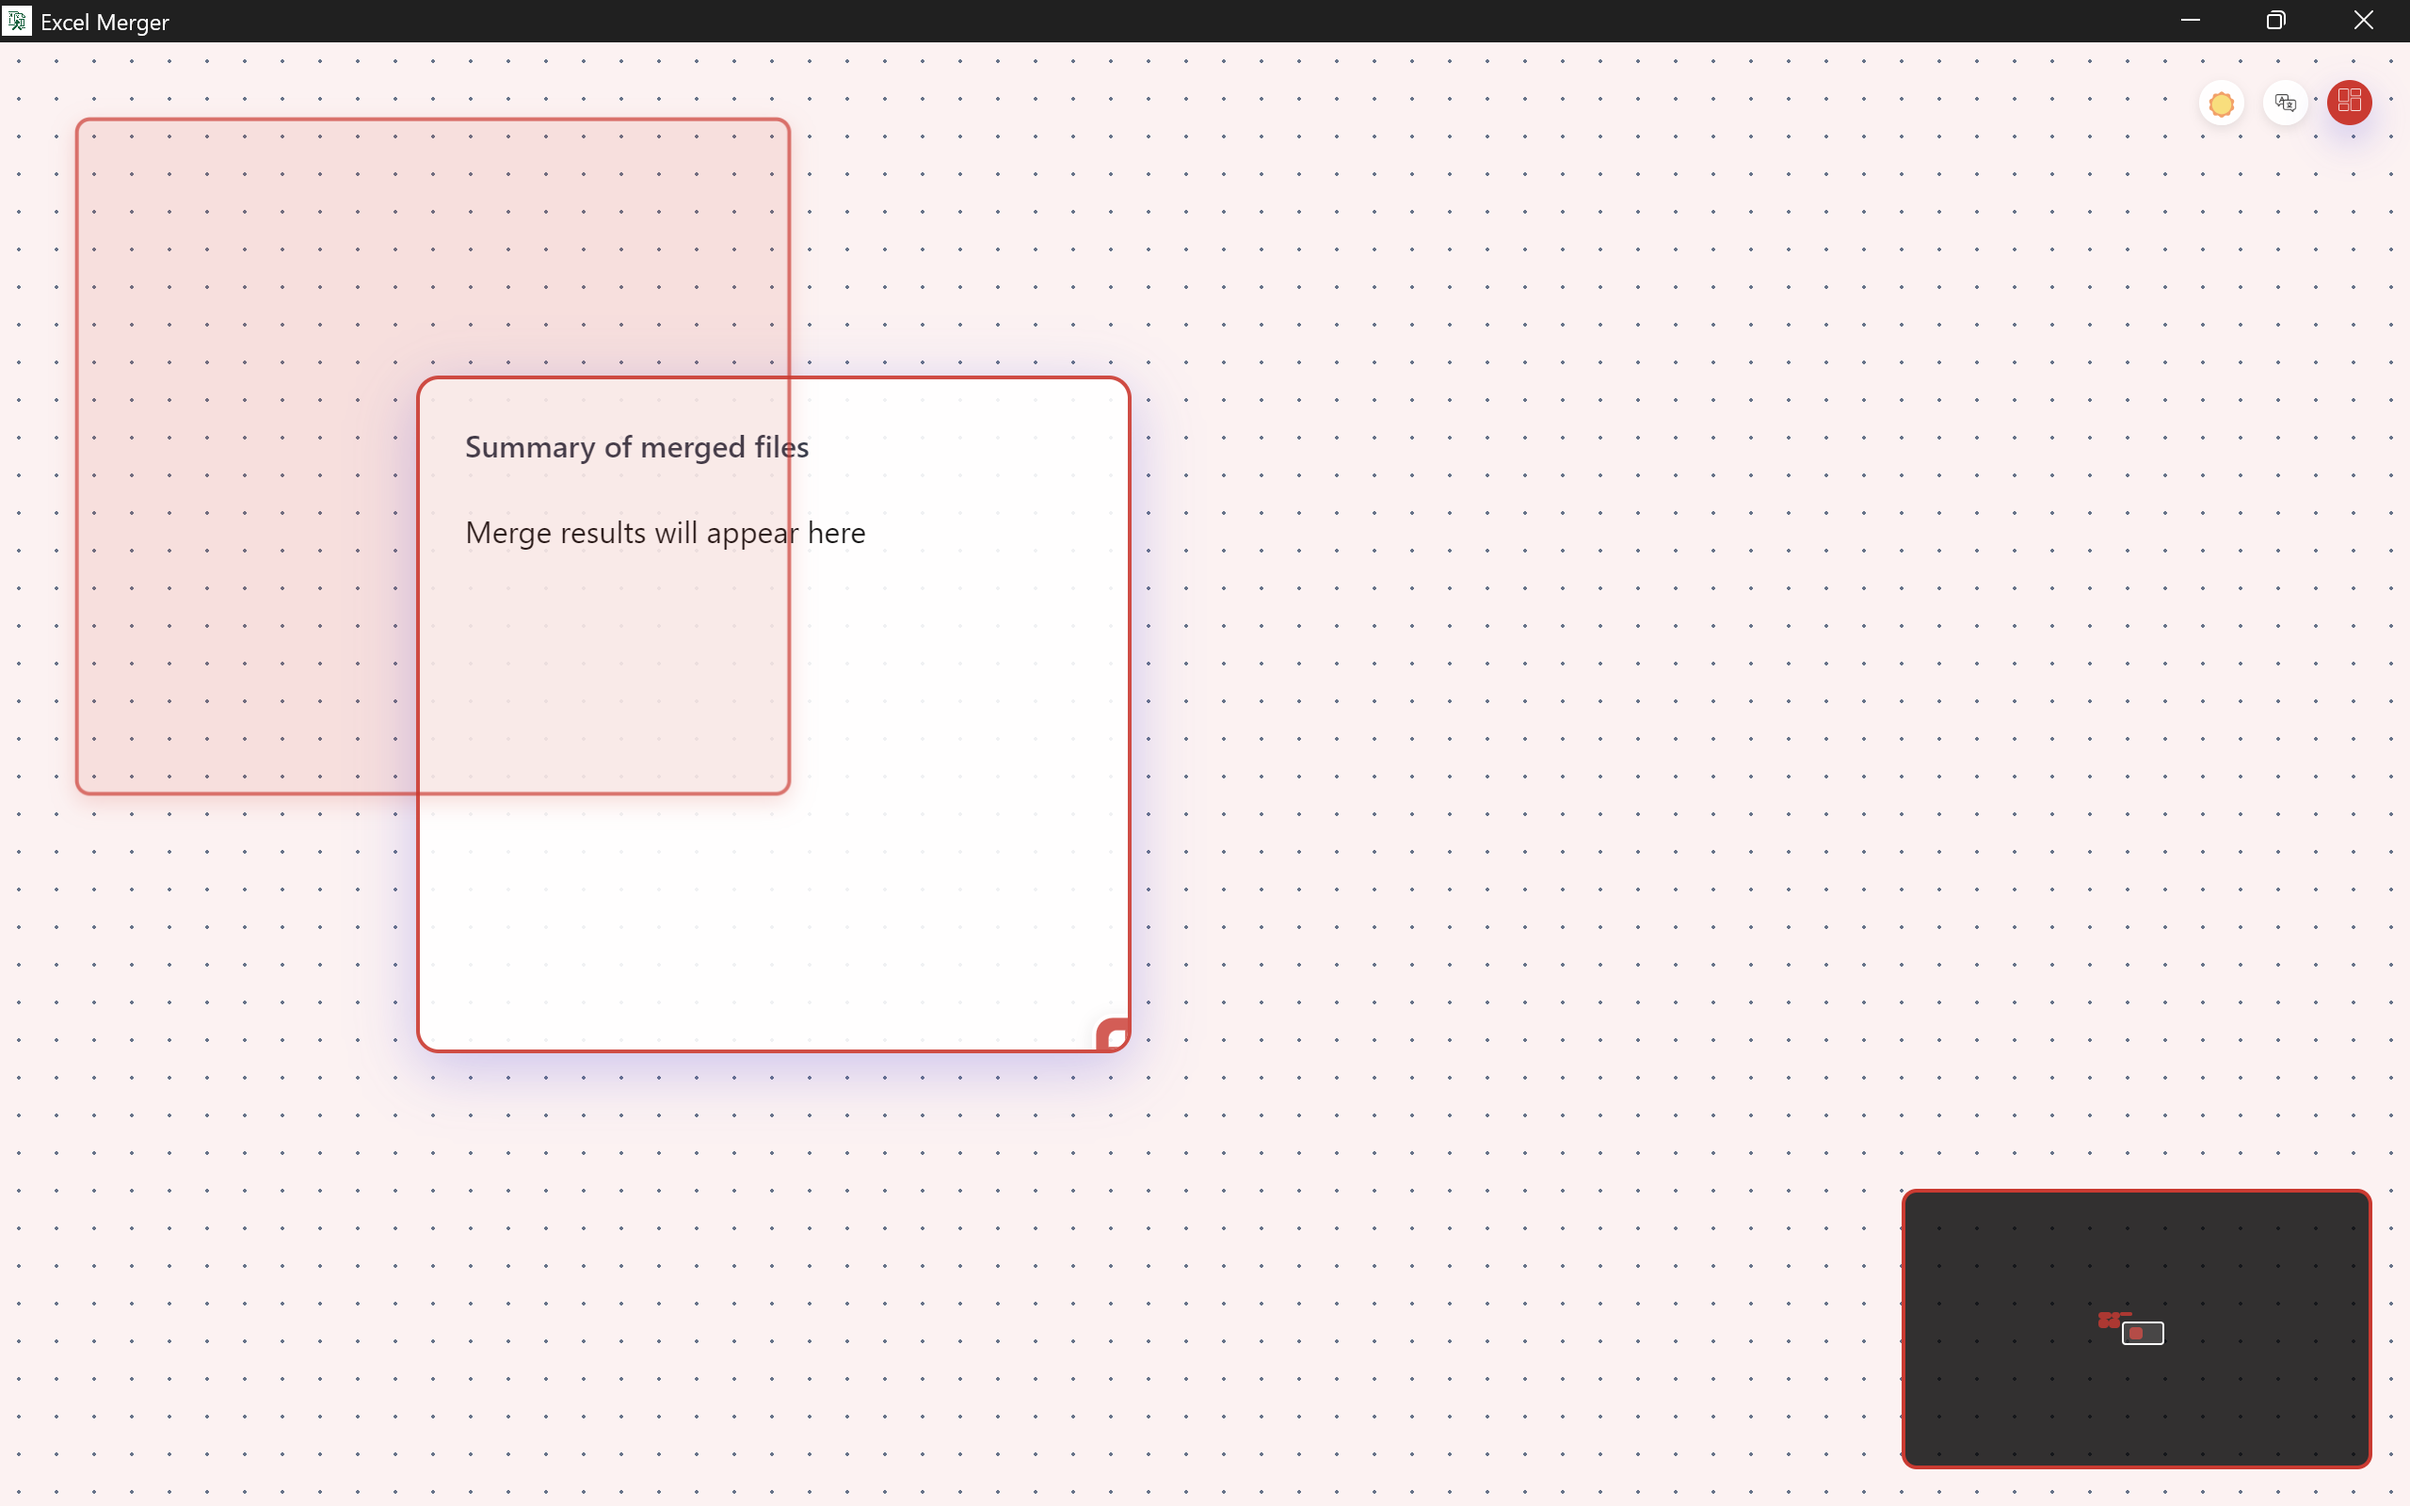
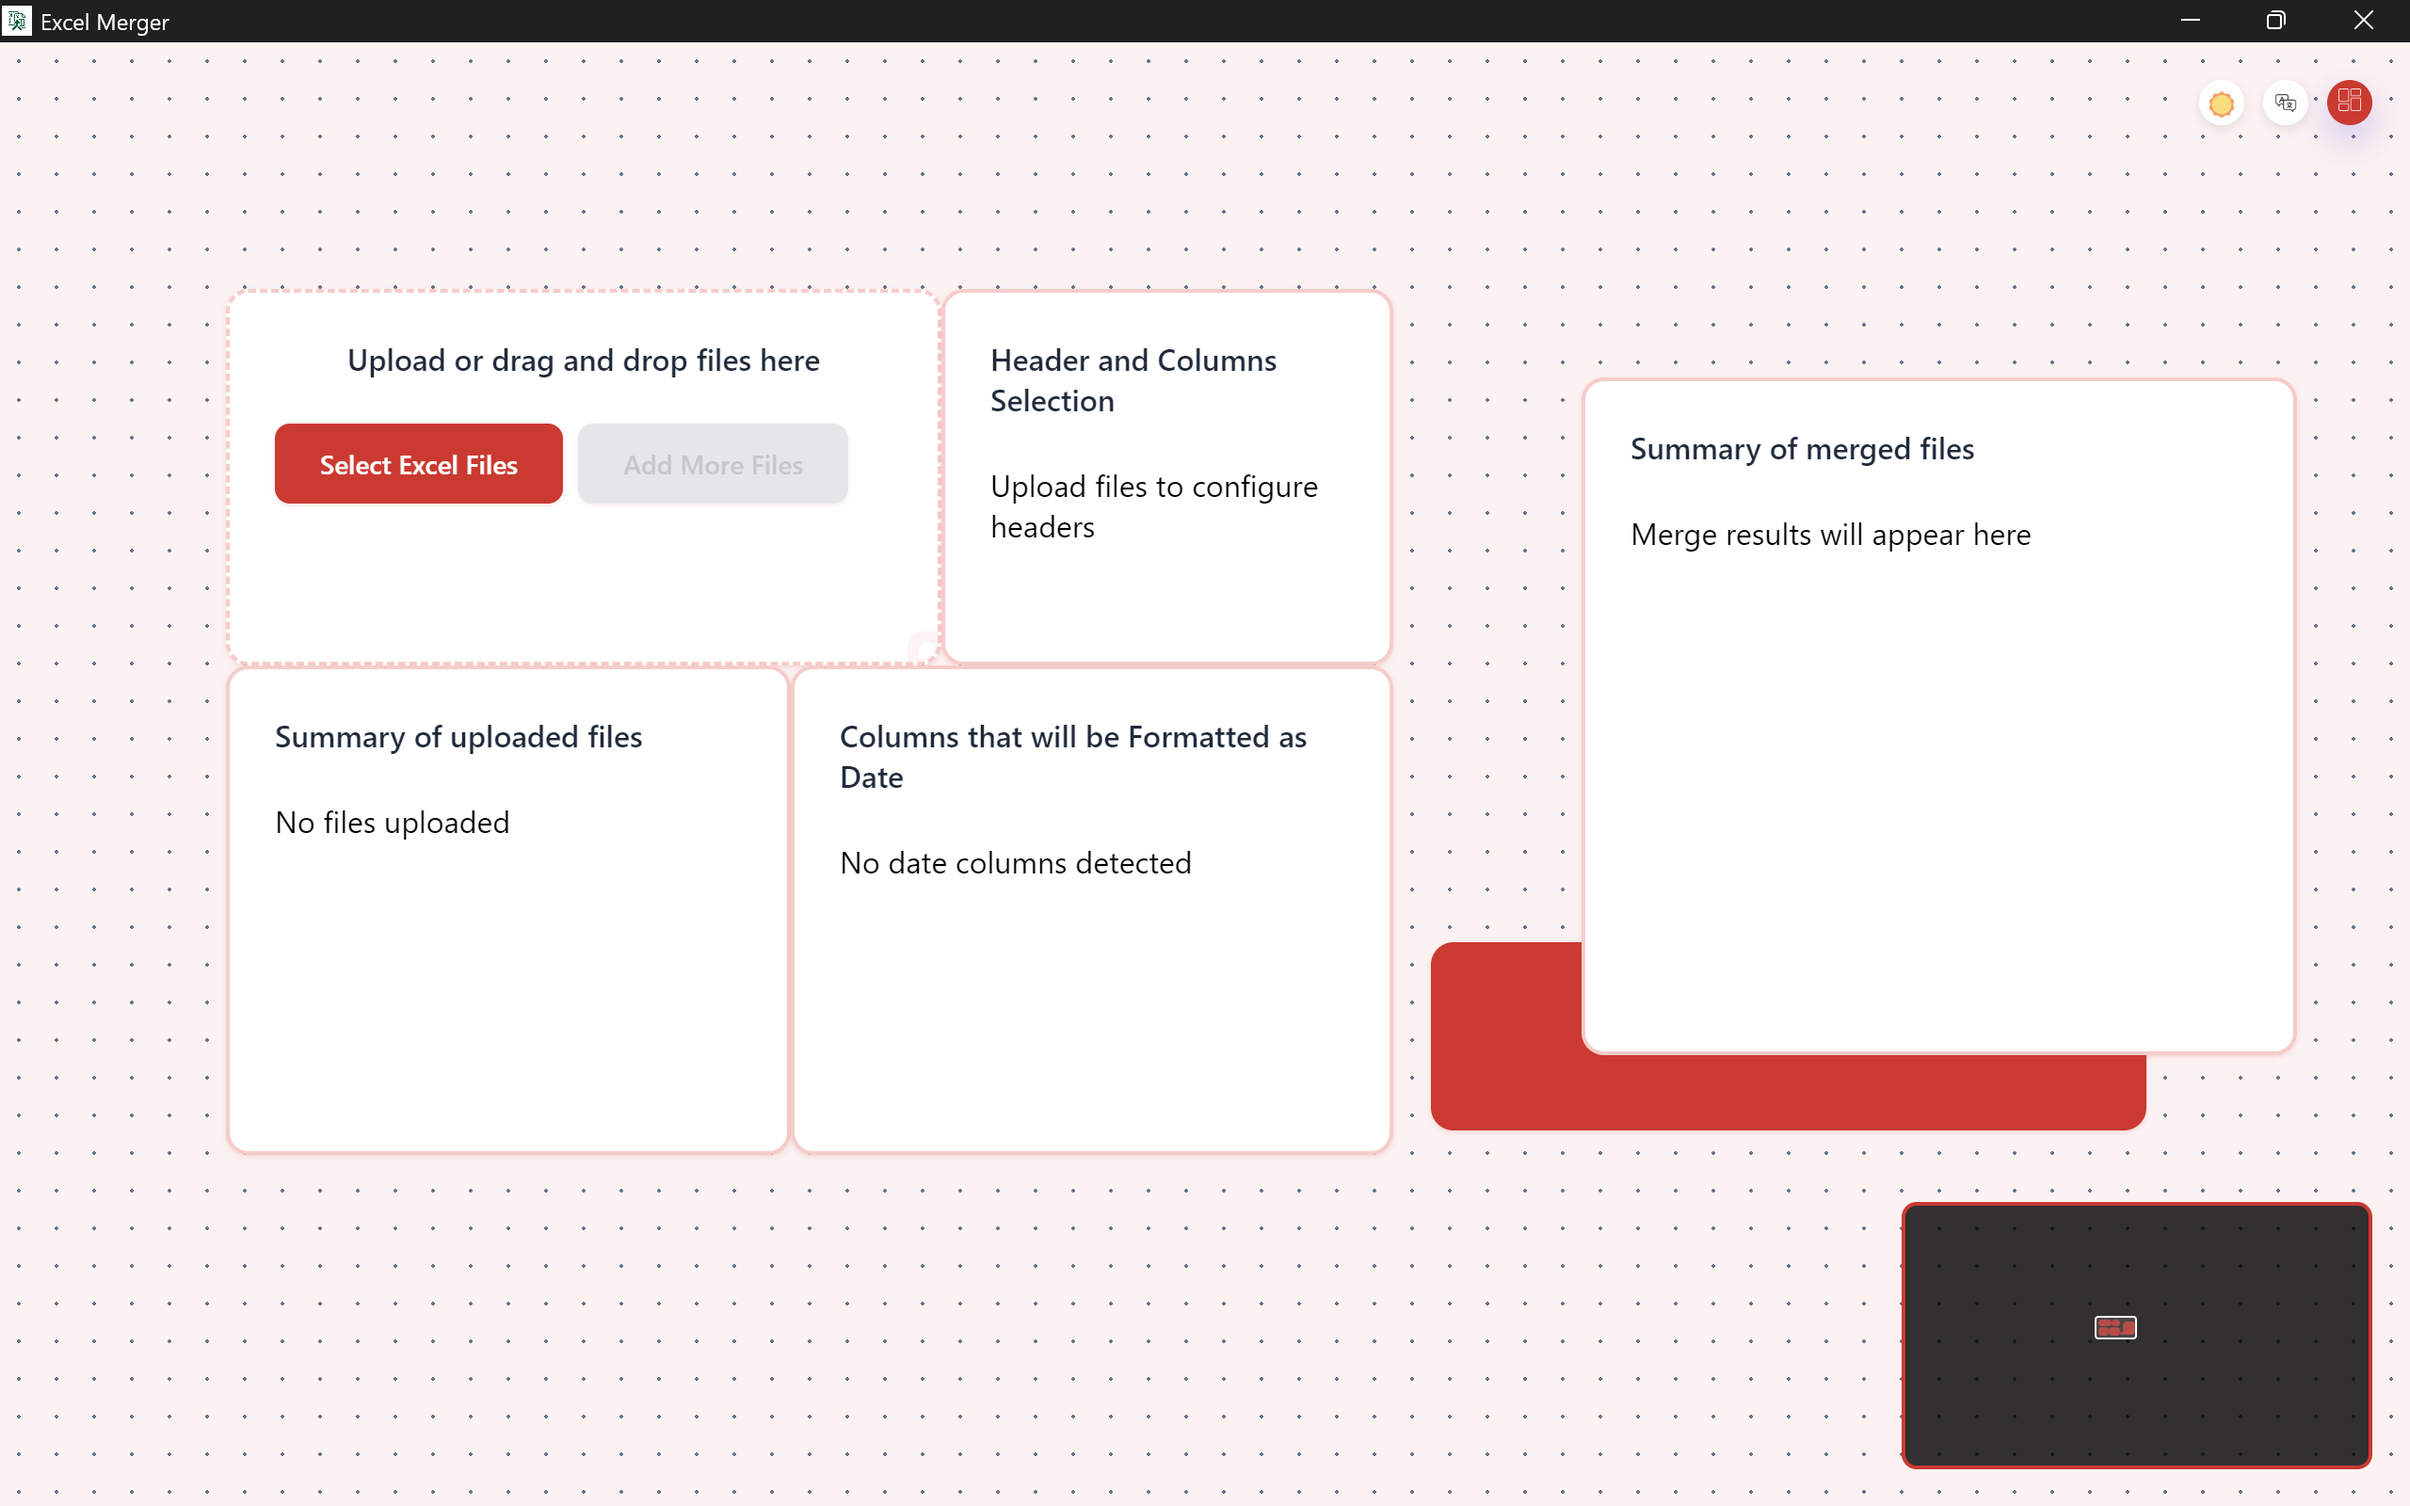
Fix collision matrix corruption during drag operations in layout mode
- Add useInitialPosition parameter to collision detection functions
- Use initial drag position instead of current position during drag operations
- Prevent collision matrix desync when panels move in real-time
- Add rebuildCollisionMatrix function to ensure matrix consistency
- Fix panel overlapping and movement restrictions in layout mode
- Maintain accurate collision detection throughout drag operations

🤖 Generated with [Claude Code](https://claude.ai/code)

diff --git a/src/App.js b/src/App.js
@@ -659,7 +659,7 @@ function App() {
   };
 
   // Matrix-based collision detection
-  const checkCollisionMatrix = (elementId, worldX, worldY, width, height) => {
+  const checkCollisionMatrix = (elementId, worldX, worldY, width, height, useInitialPosition = false) => {
     if (!collisionMatrix) {
       return false; // No matrix available, allow movement
     }
@@ -678,17 +678,33 @@ function App() {
       }
     }
     
-    // Clear the current element from the matrix
-    const currentPos = panelPositions[elementId];
-    if (currentPos) {
-      const currentMatrixX = (currentPos.x || 0) - workspaceBounds.minX;
-      const currentMatrixY = (currentPos.y || 0) - workspaceBounds.minY;
-      const currentWidth = currentPos.width || (availableButtons.find(b => b.id === elementId) ? DEFAULT_BUTTON_SIZE : DEFAULT_PANEL_WIDTH);
-      const currentHeight = currentPos.height || (availableButtons.find(b => b.id === elementId) ? DEFAULT_BUTTON_SIZE : DEFAULT_PANEL_HEIGHT);
+    // Clear the element from its original position during drag operations
+    let clearX, clearY, clearWidth, clearHeight;
+    
+    if (useInitialPosition && draggedElement && draggedElement.id === elementId) {
+      // During drag: use the initial position that was stored at drag start
+      clearX = initialPanelPosition.x;
+      clearY = initialPanelPosition.y;
+      const currentPos = panelPositions[elementId];
+      clearWidth = currentPos?.width || (availableButtons.find(b => b.id === elementId) ? DEFAULT_BUTTON_SIZE : DEFAULT_PANEL_WIDTH);
+      clearHeight = currentPos?.height || (availableButtons.find(b => b.id === elementId) ? DEFAULT_BUTTON_SIZE : DEFAULT_PANEL_HEIGHT);
+    } else {
+      // Normal operation: use current position
+      const currentPos = panelPositions[elementId];
+      if (!currentPos) return false;
       
-      if (currentMatrixX >= 0 && currentMatrixY >= 0) {
-        tempMatrix.setCells(currentMatrixX, currentMatrixY, currentWidth, currentHeight, 0);
-      }
+      clearX = currentPos.x || 0;
+      clearY = currentPos.y || 0;
+      clearWidth = currentPos.width || (availableButtons.find(b => b.id === elementId) ? DEFAULT_BUTTON_SIZE : DEFAULT_PANEL_WIDTH);
+      clearHeight = currentPos.height || (availableButtons.find(b => b.id === elementId) ? DEFAULT_BUTTON_SIZE : DEFAULT_PANEL_HEIGHT);
+    }
+    
+    // Convert to matrix coordinates and clear the original position
+    const clearMatrixX = clearX - workspaceBounds.minX;
+    const clearMatrixY = clearY - workspaceBounds.minY;
+    
+    if (clearMatrixX >= 0 && clearMatrixY >= 0) {
+      tempMatrix.setCells(clearMatrixX, clearMatrixY, clearWidth, clearHeight, 0);
     }
     
     // Check if the new position would be valid
@@ -696,10 +712,10 @@ function App() {
   };
 
   // Legacy AABB collision detection (fallback)
-  const checkCollision = (elementId, x, y, width, height) => {
+  const checkCollision = (elementId, x, y, width, height, useInitialPosition = false) => {
     // Use matrix-based collision detection if available
     if (collisionMatrix) {
-      return checkCollisionMatrix(elementId, x, y, width, height);
+      return checkCollisionMatrix(elementId, x, y, width, height, useInitialPosition);
     }
     
     // Fallback to AABB collision detection
@@ -974,6 +990,39 @@ function App() {
     }
   };
 
+  // Rebuild collision matrix from current panel positions
+  const rebuildCollisionMatrix = () => {
+    if (!collisionMatrix) return null;
+    
+    // Clear the entire matrix
+    for (let row = 0; row < collisionMatrix.rows; row++) {
+      for (let col = 0; col < collisionMatrix.cols; col++) {
+        collisionMatrix.matrix[row][col] = 0;
+      }
+    }
+    
+    // Repopulate matrix with current panel positions
+    Object.entries(panelPositions).forEach(([elementId, pos]) => {
+      const x = (pos.x || 0) - workspaceBounds.minX;
+      const y = (pos.y || 0) - workspaceBounds.minY;
+      const width = pos.width || (availableButtons.find(b => b.id === elementId) ? DEFAULT_BUTTON_SIZE : DEFAULT_PANEL_WIDTH);
+      const height = pos.height || (availableButtons.find(b => b.id === elementId) ? DEFAULT_BUTTON_SIZE : DEFAULT_PANEL_HEIGHT);
+      
+      if (x >= 0 && y >= 0) {
+        // Expand matrix if needed
+        const requiredWidth = x + width + GRID_SIZE * 2;
+        const requiredHeight = y + height + GRID_SIZE * 2;
+        if (requiredWidth > collisionMatrix.width || requiredHeight > collisionMatrix.height) {
+          collisionMatrix.expandMatrix(requiredWidth, requiredHeight);
+        }
+        
+        collisionMatrix.setCells(x, y, width, height, 1);
+      }
+    });
+    
+    return collisionMatrix;
+  };
+
   // Initialize collision matrix with current panel positions
   const initializeCollisionMatrix = () => {
     // Calculate initial workspace bounds
@@ -1011,7 +1060,12 @@ function App() {
     
     if (newLayoutMode) {
       // Initialize collision matrix when entering layout mode
-      initializeCollisionMatrix();
+      const matrix = initializeCollisionMatrix();
+      
+      // Rebuild the matrix to ensure it's in sync with current panel positions
+      setTimeout(() => {
+        rebuildCollisionMatrix();
+      }, 10);
       
       // Center the view on the workspace when entering layout mode
       setTimeout(() => {
@@ -1145,8 +1199,8 @@ function App() {
     const snappedX = snapToGrid(elementX);
     const snappedY = snapToGrid(elementY);
     
-    // Check for collisions at the snapped position
-    const hasCollision = checkCollision(draggedElement.id, snappedX, snappedY, width, height);
+    // Check for collisions at the snapped position (use initial position during drag)
+    const hasCollision = checkCollision(draggedElement.id, snappedX, snappedY, width, height, true);
     
     // Update panel position in real-time during drag
     // If no collision, move to snapped position; otherwise keep previous position
@@ -1189,8 +1243,8 @@ function App() {
     const snappedX = snapToGrid(elementX);
     const snappedY = snapToGrid(elementY);
     
-    // Check for collisions at the snapped position
-    const hasCollision = checkCollision(draggedElement.id, snappedX, snappedY, width, height);
+    // Check for collisions at the snapped position (use initial position during drag)
+    const hasCollision = checkCollision(draggedElement.id, snappedX, snappedY, width, height, true);
     
     // Update collision matrix with final position
     if (collisionMatrix) {
